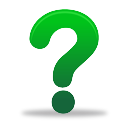
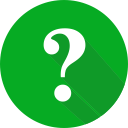
Update images and create test

diff --git a/test.html b/test.html
@@ -1,0 +1,163 @@
+<!DOCTYPE HTML>
+<html lang="en">
+    <head>
+        <meta charset="UTF-8">
+        <title>Elise Tests</title>
+        <link href="img/elise.png" rel="shortcut icon">
+        <link href="css/elise.css" rel="stylesheet">
+        <style>
+            body { margin: 20px; }
+            img.logo { display: inline-block; float: left; line-height: 50px; height: 50px; }
+            h1.title { display: inline-block; float: left; line-height: 50px; margin: 0 10px; }
+            .block { margin: 20px 0; }
+        </style>
+    </head>
+    <body>
+        <header class="block">
+            <img class="logo" src="img/elise.png">
+            <h1 class="title">Elise Tests</h1>
+        </header>
+        <hr>
+        <div class="block">
+            <button id="a" class="ebutton red">Great modal</button>
+            <button id="b" class="ebutton blue">Great hope</button>
+            <button id="c" class="ebutton green">Great loader</button>
+            <button id="d" class="ebutton orange">Great alert</button>
+        </div>
+
+        <div id="test" class="block">
+            <p>Here we have tests elise tests...</p>
+        </div>
+
+        <div id="content" class="hidden">
+            <p>
+                Lorem ipsum dolor sit amet, consectetur adipisicing elit, sed do eiusmod
+                tempor incididunt ut labore et dolore magna aliqua. Ut enim ad minim veniam,
+                quis nostrud exercitation ullamco laboris nisi ut aliquip ex ea commodo
+                consequat. Duis aute irure dolor in reprehenderit in voluptate velit esse
+                cillum dolore eu fugiat nulla pariatur. Excepteur sint occaecat cupidatat non
+                proident, sunt in culpa qui officia deserunt mollit anim id est laborum.
+            </p>
+            <h5>Making some things...</h5>
+            <p>
+                <input id="emodal1Input1" type="text" placeholder="Type something...">
+                <input id="emodal1Input2" type="text" placeholder="Other input...">
+            </p>
+        </div>
+
+        <script src="http://ajax.googleapis.com/ajax/libs/jquery/1.8.3/jquery.min.js"></script>
+        <script src="js/elise.js"></script>
+        <script>
+            // Modal
+            $('#a').on('click', function () {
+                modal1 = Elise.modal({
+                    container: 'content',
+                    title: 'Amazing modal example',
+                    buttons: [
+                        {
+                            btnText: 'Process Data',
+                            btnPosition: 'left',
+                            btnColor: 'sky-blue',
+                            btnClick: function () {
+                                var text1 = this.emodal.find('#emodal1Input1').val();
+                                if (text1) {
+                                    modal1.hide();
+                                    setTimeout(function () {
+                                        alert(text1, {type: 'alert'});
+                                    }, 1000);
+                                } else {
+                                    alert('You have to type something in first input!', {
+                                        type: 'error',
+                                        afterClose: function () {
+                                            modal1.emodal.find('#emodal1Input1').trigger('focus');
+                                        }
+                                    });
+                                }
+                            }
+                        }
+                    ],
+                    onOpen: function () {
+                        this.emodal.find('#emodal1Input1').val('').trigger('focus');
+                    }
+                });
+            });
+
+
+            // Hope
+            $('#b').on('click', function () {
+                hope1 = Elise.hope({
+                    loader: {
+                        determinate: true,
+                        percentage: 0,
+                        type: 'spin',
+                        text: 'Downloading components...'
+                    }
+                });
+                setTimeout(function () {hope1.update({text: 'Installing application...', percentage: 25});}, 1500);
+                setTimeout(function () {hope1.update({text: 'Applying changes...', percentage: 63});}, 3000);
+                setTimeout(function () {hope1.update({text: 'Initializating...', percentage: 100});}, 5000);
+                setTimeout(function () {hope1.destroy();}, 6000);
+            });
+
+
+            // Loader
+            $('#c').on('click', function () {
+                loader1 = $('#test').loader({
+                    type: 'spin',
+                    determinate: false,
+                    text: 'We are working on this right now...'
+                });
+                loader2 = $('#test').loader({
+                    type: 'spin',
+                    determinate: true,
+                    text: 'We are working on this right now...'
+                });
+                loader3 = $('#test').loader({
+                    type: 'bar',
+                    determinate: false,
+                    text: 'We are working on this right now...'
+                });
+                loader4 = $('#test').loader({
+                    type: 'bar',
+                    determinate: true,
+                    text: 'We are working on this right now...'
+                });
+                setTimeout(function () {
+                    var msg = 'Installing components...', perc = 27;
+                    loader1.update({text: msg, percentage: perc});
+                    loader2.update({text: msg, percentage: perc});
+                    loader3.update({text: msg, percentage: perc});
+                    loader4.update({text: msg, percentage: perc});
+                }, 2000);
+                setTimeout(function () {
+                    var msg = 'Applying changes...', perc = 63;
+                    loader1.update({text: msg, percentage: perc});
+                    loader2.update({text: msg, percentage: perc});
+                    loader3.update({text: msg, percentage: perc});
+                    loader4.update({text: msg, percentage: perc});
+                }, 4000);
+                setTimeout(function () {
+                    var msg = 'Initializating application...', perc = 100;
+                    loader1.update({text: msg, percentage: perc});
+                    loader2.update({text: msg, percentage: perc});
+                    loader3.update({text: msg, percentage: perc});
+                    loader4.update({text: msg, percentage: perc});
+                }, 6000);
+                setTimeout(function () {
+                    loader1.destroy();
+                    loader2.destroy();
+                    loader3.destroy();
+                    loader4.destroy();
+                }, 7000);
+            });
+
+            // Alert
+            $('#d').on('click', function () {
+                alert1 = Elise.alert({
+                    content: 'This is an awesome example about how we can create amazing alert messages!',
+                    type: 'info'
+                });
+            });
+        </script>
+    </body>
+</html>

diff --git a/js/elise.js b/js/elise.js
@@ -232,7 +232,7 @@ Elise.popup = function (config) {
 
 
 // Modal
-Elise.modal = eModal = function (data) {
+Elise.modal = function (data) {
 
     // Configuration
     var tmp, index;
@@ -572,9 +572,9 @@ Elise.alert = function (data) {
             holder.find('button').focus();
             options.afterShow();
         });
-        options.beforeShow();
-        holder.trigger('focus');
         isShown = true;
+        holder.trigger('focus');
+        options.beforeShow();
     };
 
 
@@ -588,10 +588,10 @@ Elise.alert = function (data) {
             top: top - 50,
             left: left
         }, 200, function () {
-            background.remove();
-            options.afterClose();
-            eleFocus.trigger('focus');
             isShown = false;
+            background.remove();
+            eleFocus.trigger('focus');
+            options.afterClose();
         });
         options.beforeClose();
     };
@@ -624,6 +624,15 @@ Elise.alert = function (data) {
     show();
     return background;
 
+};
+
+// Override window.alert
+window._alert = window.alert;
+window.alert = function (content, config) {
+    config = $.extend(config, {
+        content: content
+    });
+    return Elise.alert(config);
 };
 
 
